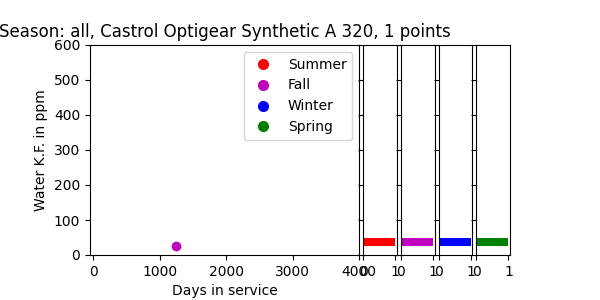
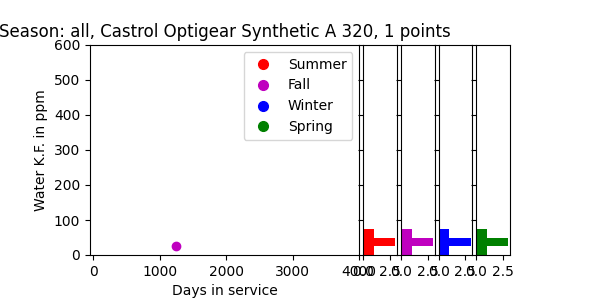
Sep 29, 2022, 6:55 PM

Changed region(s): [[0.57, 0.75, 0.87, 0.93]]

diff --git a/project/dataset.py b/project/dataset.py
@@ -247,37 +247,37 @@ class Dataset:
                 ax.legend(
                     handles=[summer_point, fall_point, winter_point, spring_point]
                 )
-                if len(d1["x_values"]) > 0:
-                    xymax = max(np.max(np.abs(d1["x_values"])), np.max(np.abs(d1["y_values"])))
+                if len(d2["x_values"]) > 0:
+                    xymax = max(np.max(np.abs(d2["x_values"])), np.max(np.abs(d2["y_values"])))
                     lim = (int(xymax/binwidth) + 1) * binwidth
 
                     bins = np.arange(-lim, lim + binwidth, binwidth)
                         
-                    ax_histy_summer.hist(d1["y_values"], bins=bins, color="red", orientation='horizontal')
+                    ax_histy_summer.hist(d2["y_values"], bins=bins, color="red", orientation='horizontal')
 
-                if len(d1["x_values"]) > 0:
-                    xymax = max(np.max(np.abs(d1["x_values"])), np.max(np.abs(d1["y_values"])))
+                if len(d2["x_values"]) > 0:
+                    xymax = max(np.max(np.abs(d2["x_values"])), np.max(np.abs(d2["y_values"])))
                     lim = (int(xymax/binwidth) + 1) * binwidth
 
                     bins = np.arange(-lim, lim + binwidth, binwidth)
                         
-                    ax_histy_fall.hist(d1["y_values"], bins=bins, color="m", orientation='horizontal')
+                    ax_histy_fall.hist(d2["y_values"], bins=bins, color="m", orientation='horizontal')
 
-                if len(d1["x_values"]) > 0:
-                    xymax = max(np.max(np.abs(d1["x_values"])), np.max(np.abs(d1["y_values"])))
+                if len(d2["x_values"]) > 0:
+                    xymax = max(np.max(np.abs(d2["x_values"])), np.max(np.abs(d2["y_values"])))
                     lim = (int(xymax/binwidth) + 1) * binwidth
 
                     bins = np.arange(-lim, lim + binwidth, binwidth)
                         
-                    ax_histy_winter.hist(d1["y_values"], bins=bins, color="blue", orientation='horizontal')
+                    ax_histy_winter.hist(d2["y_values"], bins=bins, color="blue", orientation='horizontal')
 
-                if len(d1["x_values"]) > 0:
-                    xymax = max(np.max(np.abs(d1["x_values"])), np.max(np.abs(d1["y_values"])))
+                if len(d2["x_values"]) > 0:
+                    xymax = max(np.max(np.abs(d2["x_values"])), np.max(np.abs(d2["y_values"])))
                     lim = (int(xymax/binwidth) + 1) * binwidth
 
                     bins = np.arange(-lim, lim + binwidth, binwidth)
                         
-                    ax_histy_spring.hist(d1["y_values"], bins=bins, color="green", orientation='horizontal')
+                    ax_histy_spring.hist(d2["y_values"], bins=bins, color="green", orientation='horizontal')
 
 
 
